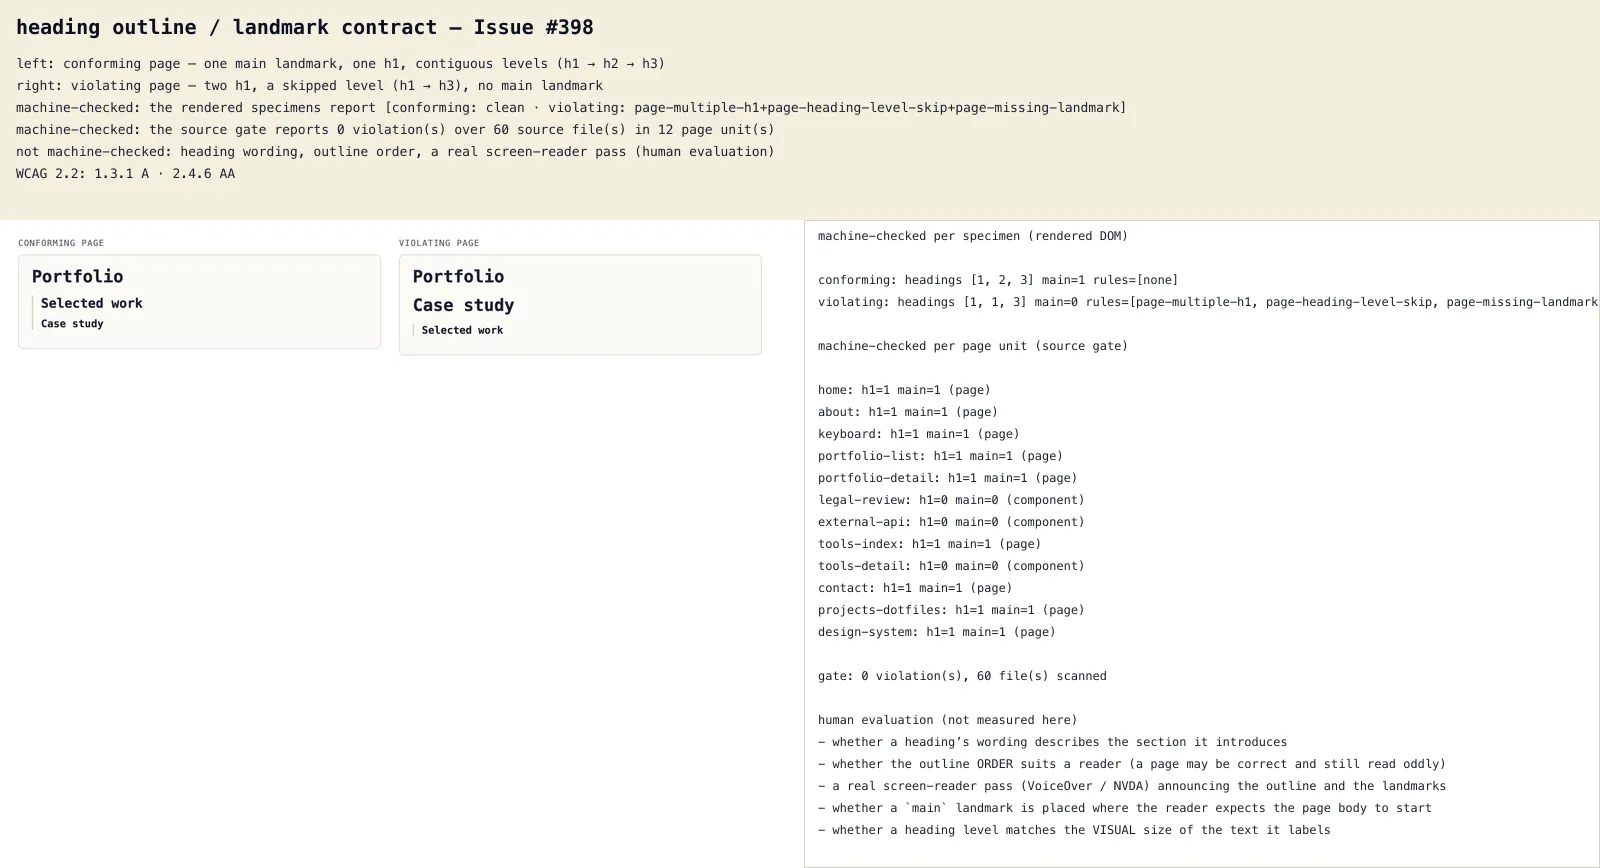
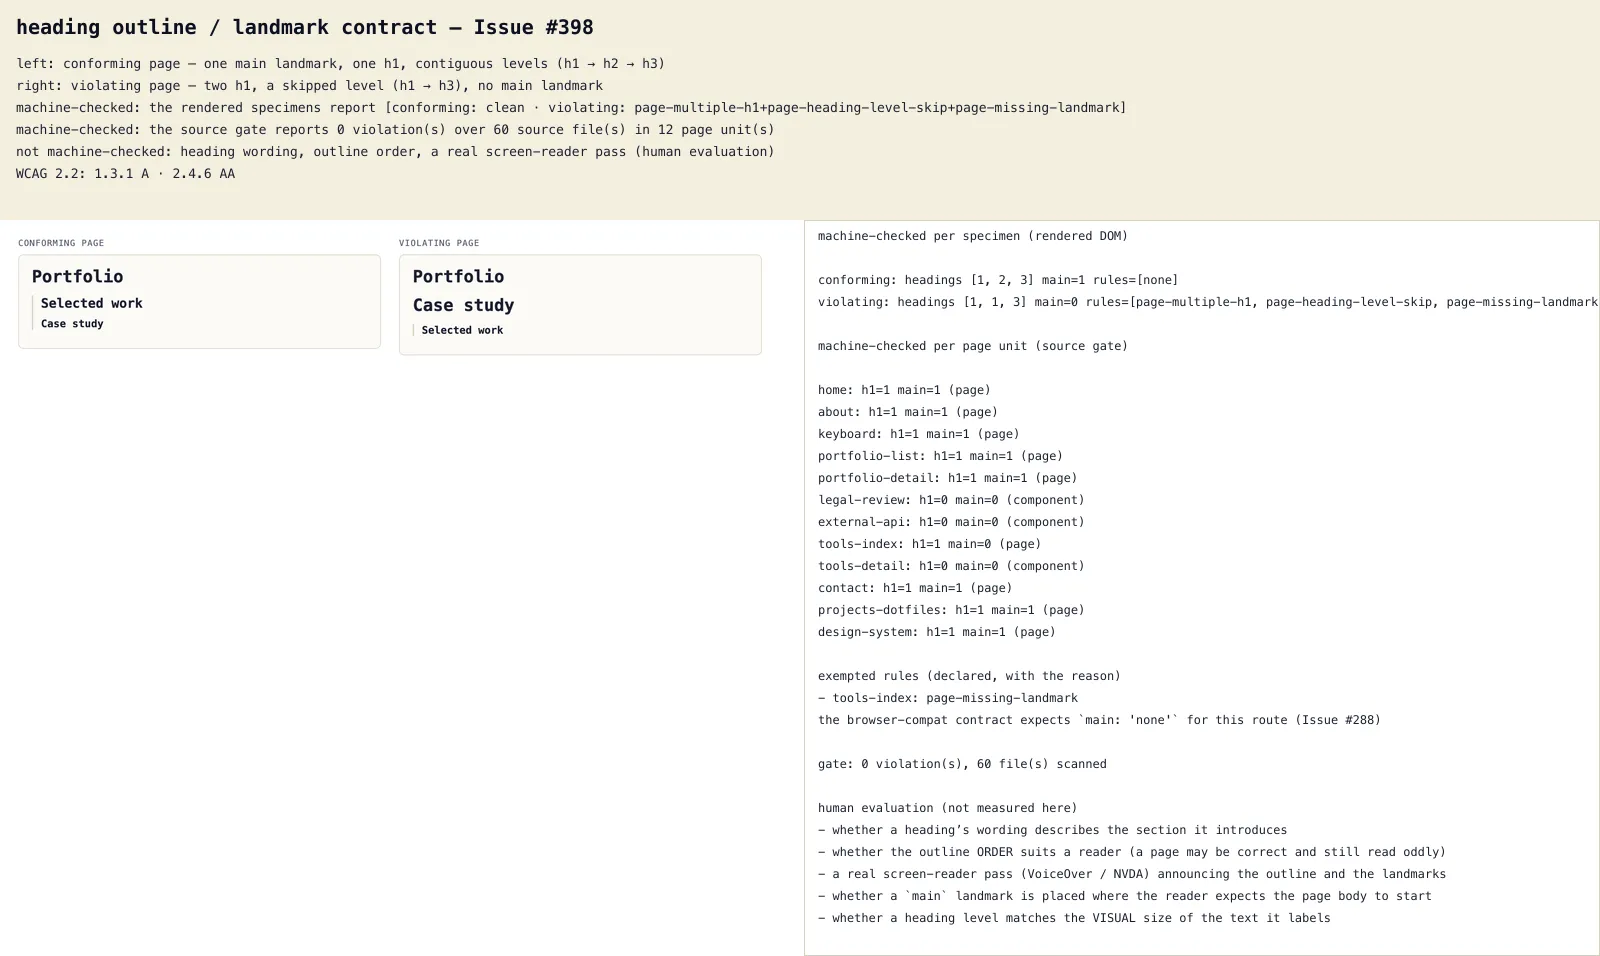
fix(a11y): declare the /tools landmark exemption instead of adding a <main> (#398)
The browser-compat job failed on all three engines because this branch
wrapped the /tools index in a `<main>` landmark. The compat contract
(`e2e/compat/contract.ts`) states the opposite as a documented state:
`/tools` is a full-viewport iframe shell and is expected to render
`main: 'none'` (Issue #288). Adding the landmark reversed an existing
contract, so the landmark is removed again and `src/routes/tools.index.tsx`
is byte-identical to `release-0-8-0` once more.

The heading / landmark gate would then report `page-missing-landmark` for
that route, which is a false positive against the compat contract. The
gate now takes an EXPLICIT exemption instead: a unit declares the rules
it is exempt from, each with the reason and the contract the state comes
from, and the report PRINTS the exemption with that reason.

The exemption is fail-closed:

  - it applies only to the unit that declares it, so a unit that
    declares nothing is never excused;
  - it excuses only the rule it names, so a second `main` or a missing
    `<h1>` on /tools is still reported;
  - an exemption without a reason, or one naming a rule the gate does
    not decide, excuses nothing and is reported as
    `exemption-mismatch`.

The gate's own tests pin the declaration, the reason, the
declaring-unit-only scope and the two invalid-declaration cases; the
capture prints the exemption in its evidence panel, and the verification
record explains why the route is exempt.

Changed region(s): [[0.0, 0.0, 1.0, 0.9643]]

diff --git a/src/routes/tools.index.tsx b/src/routes/tools.index.tsx
@@ -78,10 +78,7 @@ export const Route = createFileRoute('/tools/')({
 function ToolsIndexRoute() {
 	const { embeddable, disabled } = Route.useLoaderData();
 	return (
-		// Issue #398: the page renders one `main` landmark. The sections
-		// below are the page BODY, so the landmark wraps them; without it
-		// the page exposed no region for the reader to skip to.
-		<main>
+		<>
 			{/* Issue #300: the hero block and the tool lists were one
 			    section, so the page-entry beat was 96px where every
 			    other page enters at 128px. Split into the canonical
@@ -178,7 +175,7 @@ function ToolsIndexRoute() {
 					)}
 				</Container>
 			</section>
-		</main>
+		</>
 	);
 }
 

diff --git a/docs/verification/a11y/README.md b/docs/verification/a11y/README.md
@@ -10,6 +10,7 @@
 | `category-appearance.webp`, `category-monochrome*.webp`, `status-*.webp` | earlier issues | monochrome / appearance proofs kept alongside the a11y artefacts |
 | `reduced-motion-on-off.webp` | #403 | the shipped counter fixture rendered twice in one Chromium — `no-preference` and `reduce` — with the browser-reported `animation-name`, the accessible label, the machine gate's verdict and the WCAG mapping printed above the two panels |
 | `image-alt.webp` | #397 | the image alt / decorative-image contract on one screen: the two states a shipped surface may be in (a meaningful image with an alt, a decorative image with an empty alt plus a decorative mark) and the three states the gate rejects (no alt, an empty alt with no decorative mark, a blank alt), with every image's `alt` attribute and decorative mark read from the live DOM. `image-alt.md` is the write-up |
+| `heading-landmarks.webp` | #398 | the heading outline / landmark contract on one screen: a conforming page (one `main`, one `h1`, contiguous levels) next to a violating one (two `h1`, a skipped level, no `main`), with the per-page verdict of the source gate and the declared rule exemptions printed beside it. `heading-landmarks.md` is the write-up |
 
 ## Reduced motion (Issue #403)
 
